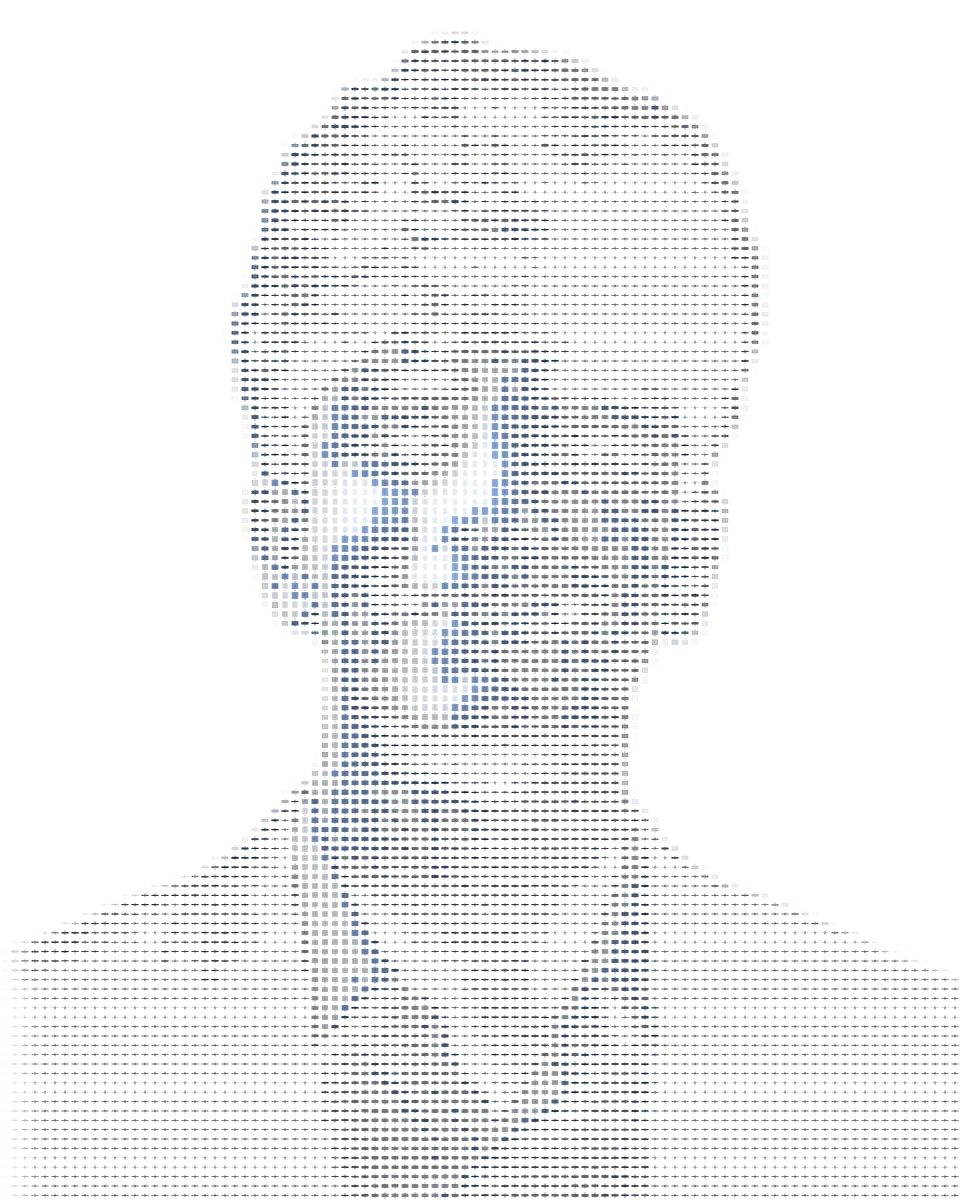
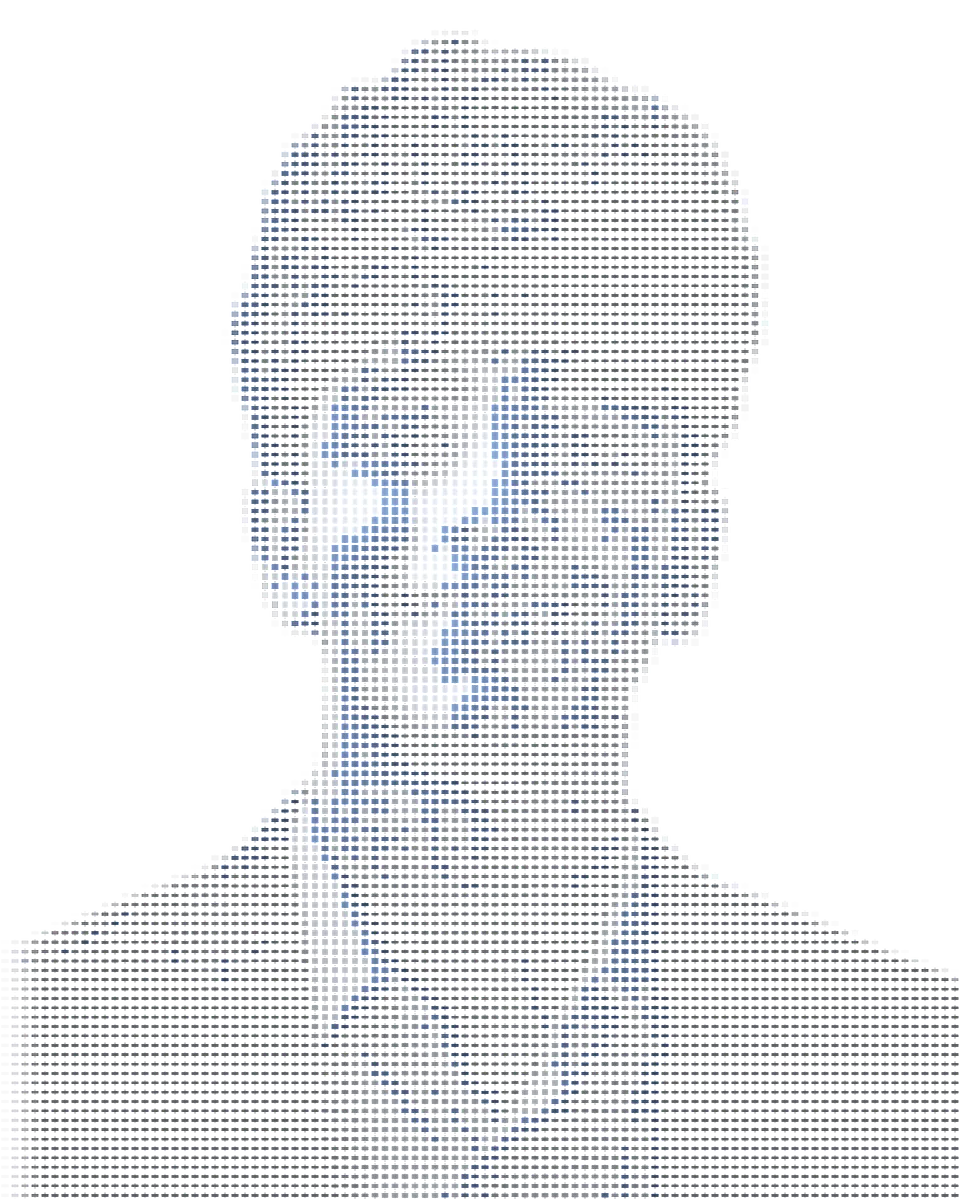
Home: livelier backdrop, lifted portrait shadows, AIR 54 spacing; page capture script
Claude-Session: https://claude.ai/code/session_01JCaSSDnTzXL3nJwXsnRRJr

Changed region(s): [[0.0312, 0.0308, 1.0, 1.0]]

diff --git a/src/components/home/wall.ts b/src/components/home/wall.ts
@@ -97,13 +97,15 @@ float city(vec2 uv, float t) {
 float backdrop(vec2 uv) {
   if (uUseVideo > 0.5) {
     float l = lum(texture(uSource, uv).rgb);
-    return smoothstep(0.04, 0.8, l);
+    /* Night footage sits low: open the shadows so the whole wall moves, not only the brightest lights. */
+    return pow(smoothstep(0.015, 0.6, l), 0.75);
   }
   return city(uv, uTime);
 }
 
 /* Tone map -> 0..1. Height and brightness both follow L^0.7, so apparent brightness tracks the photograph. */
-float portraitTone(float t) { return smoothstep(0.1, 0.95, t); }
+/* A floor under the shadows so hair and the outline of the head read; highlights unchanged. */
+float portraitTone(float t) { return 0.15 + 0.85 * smoothstep(0.04, 0.95, t); }
 
 bool insideRect(vec2 p, vec4 r) { return p.x >= r.x && p.x <= r.x + r.z && p.y >= r.y && p.y <= r.y + r.w; }
 
@@ -206,7 +208,8 @@ void main() {
 
   /* Colour. */
   vec3 restCol = up ? TEXT : (portrait ? DOWN_P : DOWN);
-  float bright = portrait ? 0.12 + 0.88 * min(P, 1.0) : 0.26 * mix(0.3, 1.0, clamp(h, 0.0, 1.0));
+  /* Backdrop tops out at 60% so the face stays the brightest thing on the wall. */
+  float bright = portrait ? 0.12 + 0.88 * min(P, 1.0) : 0.6 * mix(0.25, 1.0, clamp(h, 0.0, 1.0));
   vec3 col = mix(seriesUp ? TEXT : DOWN, restCol * bright, e);
 
   /* Amber "last print": one column at a time across the wall, with a short tail. */
@@ -214,6 +217,13 @@ void main() {
   float print = dp >= -cell.x * 0.5 ? exp(-max(dp - cell.x * 0.5, 0.0) / (cell.x * 2.5)) : 0.0;
   print *= step(dp, cell.x * 30.0) * st;
   col = mix(col, AMBER * (portrait ? 1.0 : 0.7), print * (portrait ? 0.95 : 0.8));
+
+  /* Desktop: the backdrop quietens behind the name and descriptor so the copy stays legible. */
+  if (!portrait && uView.x >= 760.0) {
+    float qx = 1.0 - smoothstep(0.36, 0.5, c.x / uView.x);
+    float qy = smoothstep(0.3, 0.44, c.y / uView.y);
+    col *= 1.0 - 0.62 * qx * qy * e;
+  }
 
   /* Foot row: candles below the rule are quieter. */
   float foot = step(uFootY, c.y);

diff --git a/src/components/home/Roll.tsx b/src/components/home/Roll.tsx
@@ -8,7 +8,10 @@ export function Roll({ value }: { value: string }) {
       <span className="sr-only">{value}</span>
       <span className="roll__visual" aria-hidden="true">
         {Array.from(value).map((ch, i) => {
-          if (!/\d/.test(ch)) return <span key={i}>{ch === " " ? "\u00a0" : ch}</span>;
+          // A space is an explicit one-character spacer: a bare space inside the inline-flex row
+          // can collapse at rest in some engines, which printed "AIR54".
+          if (ch === " ") return <span key={i} className="roll__space" />;
+          if (!/\d/.test(ch)) return <span key={i}>{ch}</span>;
           const d = Number(ch);
           // d+1 … d+9, d, d+1: the strip ends on the real digit, with one spare for the overshoot.
           const strip = [...Array.from({ length: 9 }, (_, k) => (d + k + 1) % 10), d, (d + 1) % 10];

diff --git a/src/app/globals.css b/src/app/globals.css
@@ -794,6 +794,10 @@ html:has(.home) body {
 .roll__visual {
   display: inline-flex;
 }
+.roll__space {
+  display: inline-block;
+  width: 1ch;
+}
 .roll__d {
   display: inline-block;
   height: 1.2em;

diff --git a/scripts/render-candles.py b/scripts/render-candles.py
@@ -78,7 +78,7 @@ def main():
     sy = ((cy - iy) / s).astype(int)
     inside = (sx[None, :] >= 0) & (sx[None, :] < im.width) & (sy[:, None] >= 0) & (sy[:, None] < im.height)
     sxc, syc = np.clip(sx, 0, im.width - 1), np.clip(sy, 0, im.height - 1)
-    L = smoothstep(0.1, 0.95, np.clip(tone_src[syc][:, sxc], 0, 1))
+    L = 0.15 + 0.85 * smoothstep(0.04, 0.95, np.clip(tone_src[syc][:, sxc], 0, 1))  # wall.ts portraitTone
     a = np.clip(alpha_src[syc][:, sxc], 0, 1) * inside
     Ll = np.concatenate([L[:, :1], L[:, :-1]], axis=1)
     up = L + 0.02 >= Ll
